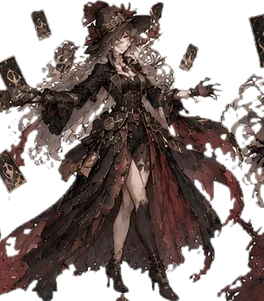
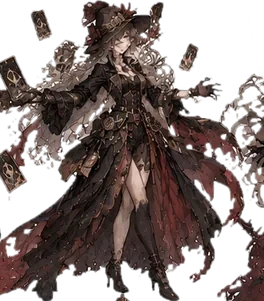
Герои боя: убрана фигура-двойник у f_sailor_cast, лишние обрывки у краёв и в idle, чужая фигура в m_sailor_dash
Claude-Session: https://claude.ai/code/session_01WGwHuEswczfwkqMjt286YP

Changed region(s): [[0.9394, 0.0299, 1.0, 0.2392]]

diff --git a/shared/battle/bscene.js b/shared/battle/bscene.js
@@ -4,7 +4,7 @@
 "use strict";
 var SRC=(document.currentScript&&document.currentScript.src)||"";
 var BASE=SRC.replace(/[^\/]*$/,"").replace(/\?.*$/,"");
-var V="?v=b3";
+var V="?v=b4";
 var META={"heroes":{"m_seer":{"idle":[288,392],"dash":[387,185],"cast":[256,393],"buff":[357,232]},"m_sailor":{"idle":[144,296],"dash":[346,248],"cast":[304,301],"buff":[303,244]},"m_hunter":{"idle":[160,296],"dash":[344,208],"cast":[369,200],"buff":[336,240]},"f_seer":{"idle":[128,308],"dash":[224,259],"cast":[264,301],"buff":[264,288]},"f_sailor":{"idle":[128,295],"dash":[304,244],"cast":[398,303],"buff":[296,252]},"f_hunter":{"idle":[128,305],"dash":[444,276],"cast":[464,268],"buff":[280,256]}},"mobs":{"drowned":[560,370],"toad":[560,342],"serpent":[560,367],"serpent2":[560,374],"leech":[560,371],"pike":[560,332],"kikimora":[560,374],"vodyanoy":[560,377],"vodyanoy2":[560,377],"mushroom":[511,560],"spider":[560,381],"tree":[560,516],"boar":[560,392],"wolf":[560,385],"kitsune":[560,414],"kitsune2":[560,374],"ghost":[362,560],"ghoul":[560,394],"skeleton":[377,560],"worm":[560,437],"banshee":[353,560],"necro":[360,560],"necro2":[372,560],"fanatic":[506,560],"gargoyle":[514,560],"guard":[370,560],"ratmut":[560,373],"cultist":[371,560],"priest":[373,560],"priest2":[372,560]},"fx":{"hunter_0":[7,186,127],"hunter_1":[8,196,133],"hunter_2":[6,239,117],"hunter_3":[6,230,111],"sailor_0":[6,234,127],"sailor_1":[8,185,133],"sailor_2":[7,257,111],"sailor_3":[7,243,117],"seer_0":[6,197,104],"seer_1":[6,169,115],"seer_2":[6,175,105],"seer_3":[6,210,127]}};
 var HM=META.heroes,MM=META.mobs,FM=META.fx;
 var reduce=false;try{reduce=matchMedia("(prefers-reduced-motion:reduce)").matches}catch(e){}

diff --git a/cemetery/battle/index.html b/cemetery/battle/index.html
@@ -12,7 +12,7 @@
 <script src="../../shared/skills.js"></script>
 <script src="../../shared/auth.js"></script>
 <script src="../../shared/sound.js?v=a3"></script>
-<script src="../../shared/battle/bscene.js?v=b3"></script>
+<script src="../../shared/battle/bscene.js?v=b4"></script>
 </head>
 <body>
 <div id="app"></div>

diff --git a/forest/battle/index.html b/forest/battle/index.html
@@ -12,7 +12,7 @@
 <script src="../../shared/skills.js"></script>
 <script src="../../shared/auth.js"></script>
 <script src="../../shared/sound.js?v=a3"></script>
-<script src="../../shared/battle/bscene.js?v=b3"></script>
+<script src="../../shared/battle/bscene.js?v=b4"></script>
 </head>
 <body>
 <div id="app"></div>

diff --git a/lake/battle/index.html b/lake/battle/index.html
@@ -12,7 +12,7 @@
 <script src="../../shared/skills.js"></script>
 <script src="../../shared/auth.js"></script>
 <script src="../../shared/sound.js?v=a3"></script>
-<script src="../../shared/battle/bscene.js?v=b3"></script>
+<script src="../../shared/battle/bscene.js?v=b4"></script>
 </head>
 <body>
 <div id="app"></div>

diff --git a/ruins/battle/index.html b/ruins/battle/index.html
@@ -12,7 +12,7 @@
 <script src="../../shared/skills.js"></script>
 <script src="../../shared/auth.js"></script>
 <script src="../../shared/sound.js?v=a3"></script>
-<script src="../../shared/battle/bscene.js?v=b3"></script>
+<script src="../../shared/battle/bscene.js?v=b4"></script>
 </head>
 <body>
 <div id="app"></div>
